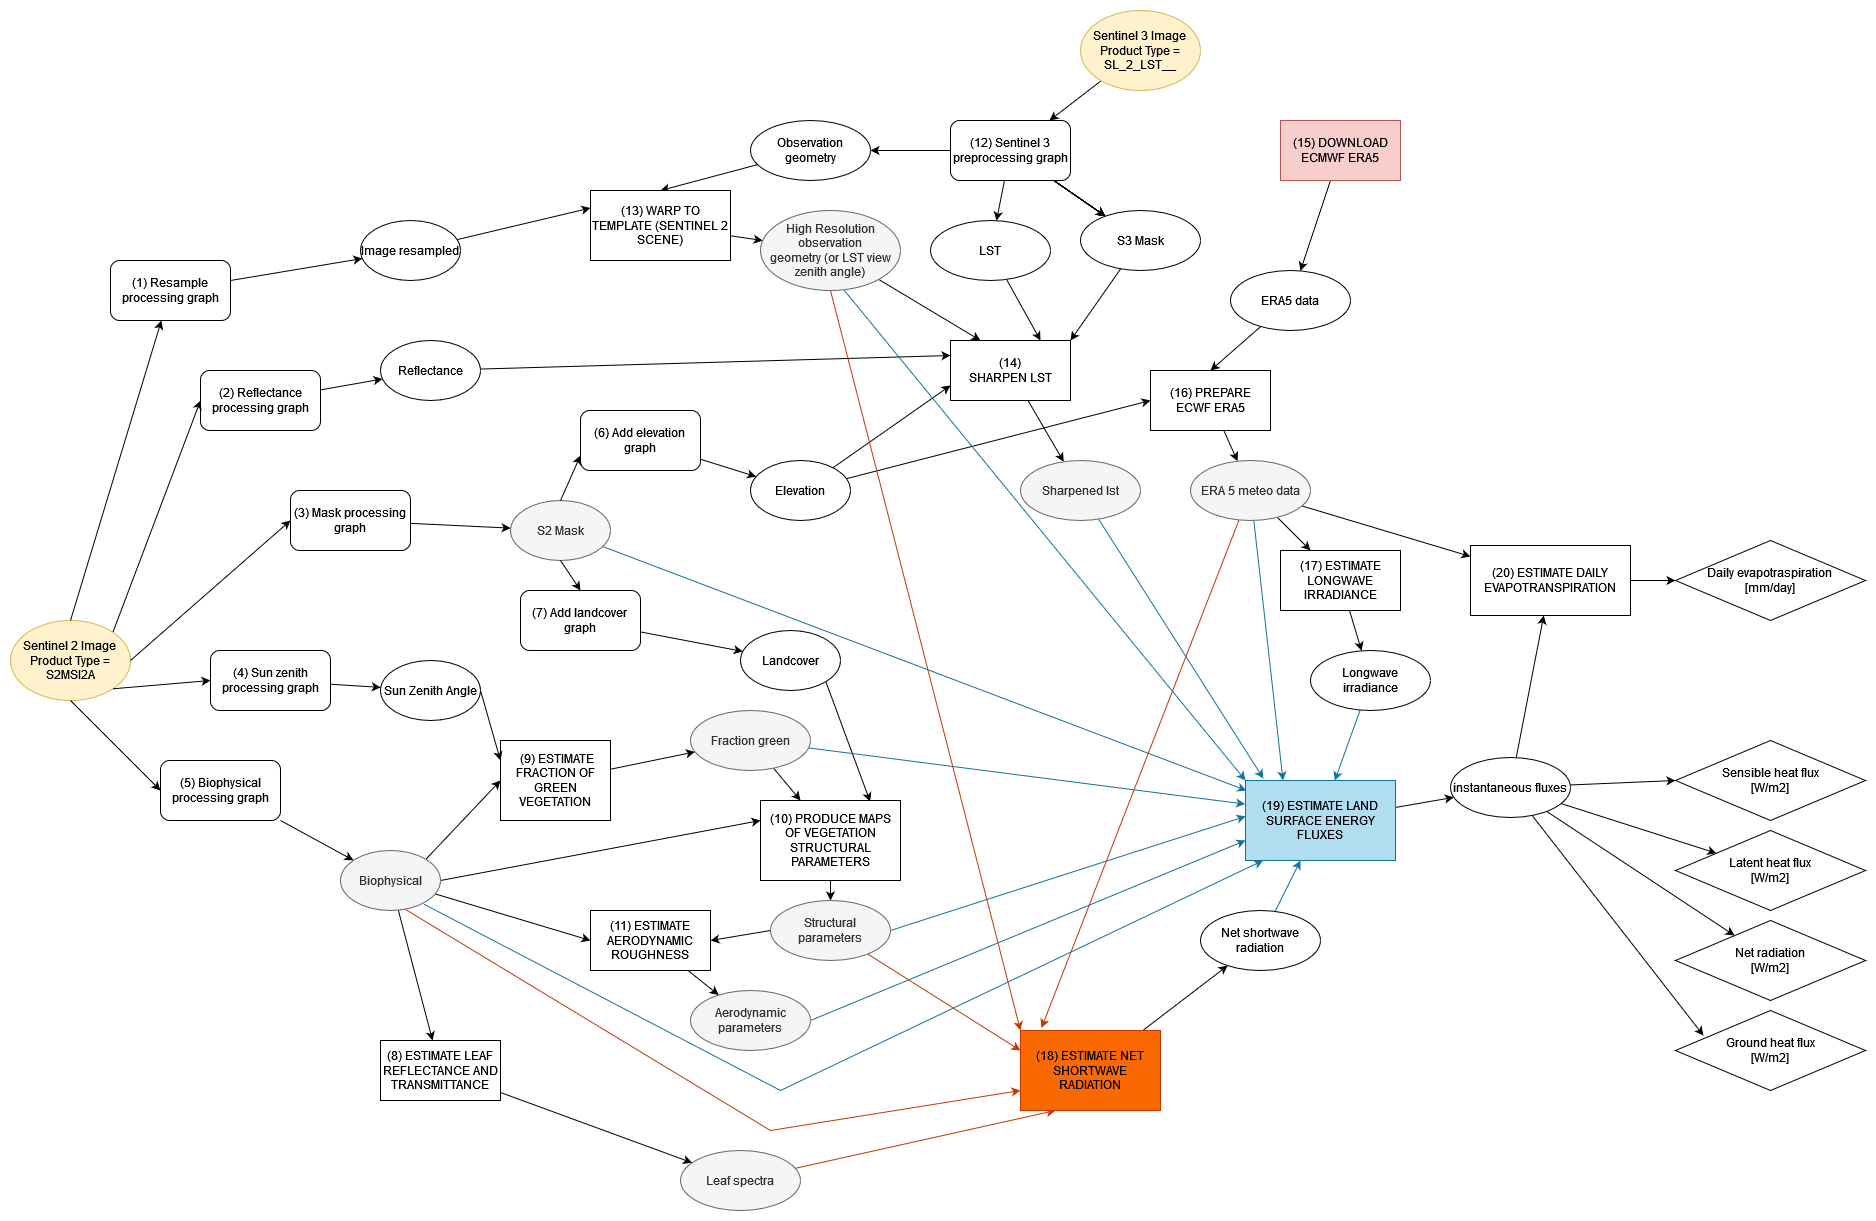
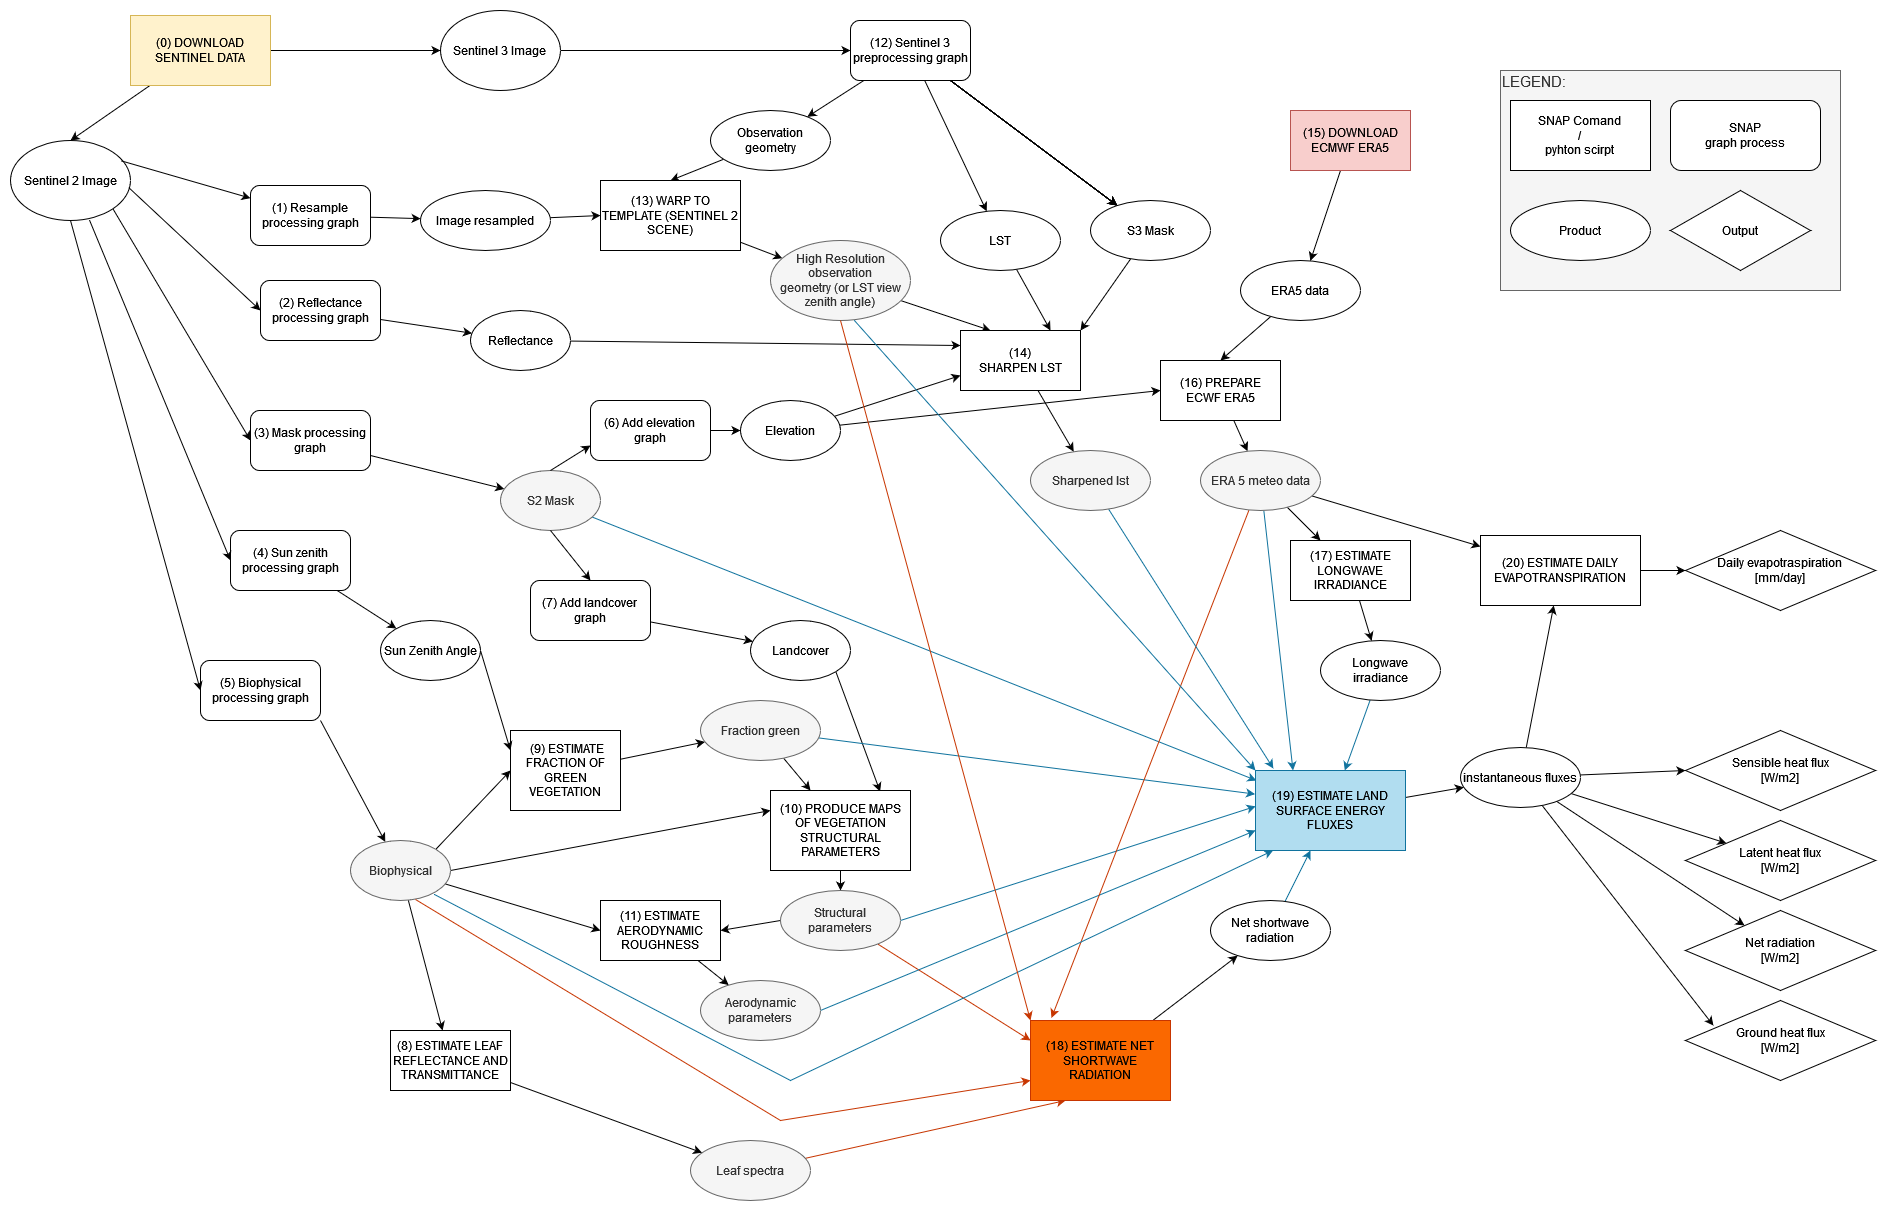
Update documentation

diff --git a/README.md b/README.md
@@ -12,7 +12,7 @@ The original schema for the plugin is represented in the image below:
 
 The automation process reduces it to one step and presents this schema:
 
-![New short sen-et](assets/new_one_step.png)
+![New short sen-et](assets/new_full.png)
 
 ## Installation
 It is needed to have installed SNAP (with Python 3.6) and the [SEN-ET plugin](https://www.esa-sen4et.org/static/media/Sen-ET-plugin-v1.0.1.b41ae6c8.zip) as indicated in the [official plugin documentation](https://www.esa-sen4et.org/static/media/sen-et-user-manual-v1.1.0.5d1ac526.pdf) in Section 3.2. In case of troubleshooting, see Section 3.4.
@@ -20,6 +20,17 @@ It is needed to have installed SNAP (with Python 3.6) and the [SEN-ET plugin](ht
 The test that everything is working will be the download of the ERA5 Data in the next step.
 
 It is also needed for Windows computers to install the Git Bash terminal provided with the installation of [Git](https://git-scm.com/downloads).
+
+### Python for generating scripts
+For the automatization of the project, it is needed to have python installed on the computer. Also, these libraries are needed:
+  - xarray
+  - netcdf4
+  - h5netcdf
+
+It is possible and recommended to use conda to create and environment with all the dependency with the command:
+```
+conda env create -f env.yml
+```
 
 ## Data download
 ### ECMWF Reanalysis v5 (ERA5) Data
@@ -43,7 +54,7 @@ The images request needs to be of the product type:
 That option could be added in the filters, zoom to the area of interest and drawn a rectangular in the area. Open the filter panel and add in the sensing date, the timespan of interest for your analysis, and the desired timespan. Using the preview, it is also possible to check the cloud coverage visually.
 
 ### Folder structure
-Once the data are downloaded, it is needed to organize them in a specific way. An analysis of the data for one month will produce products for around 500 GB. The main folder that could be named as prefered, in the schema below `MAIN_FOLDER`. One folder for each type of data called `era`, `S2` and `S3`. Inside the `S2` and `S3` folders, a folder for each of the days of the images, the folder should be named in this format `YYYY_MM_DD`.
+Once the data are downloaded, it is needed to organize them in a specific way. An analysis of the data for one month will produce products for around 500 GB. The main folder that could be named as prefered, in the schema below `MAIN_FOLDER`. One folder for each type of data is called `era`, `S2` and `S3`. Inside the `S2` and `S3` folders, a folder for each of the days of the images, the folder should be named in this format `YYYY_MM_DD`.
 
 Once the structure has been created, the `era5.nc` and the images should be moved to the correct folder. Also, it is needed to unzip the images.
 As example:
@@ -91,17 +102,23 @@ Set the parameters in the file [`parameters.json`](input/parameters.json):
 - The path into the `setet_folder` variable. The `setet_folder` is something like `"C:\\Users\\user\\.snap\\auxdata\\sen-et-conda-Win64"`.
 - It is also possible to modify all the default computational parameters, as explained in Section 3.3 of the official guide. The *only* parameter that should be modified is the [timezone of the area](input/parameters.json#L12).
 
-Finally, copy the absolute path of all the Sentinel Images in the file [`s2_paths.txt`](input/s2_paths.txt) and [`s3_paths.txt`](input/s3_paths.txt). The path should point to the file `MTD_MSIL2A.xml` for S2 and `xfdumanifest.xml` for S3.
+Finally, copy the absolute path of all the Sentinel Images in the files [`s2_paths.txt`](input/s2_paths.txt) and [`s3_paths.txt`](input/s3_paths.txt). The path should point to the file `MTD_MSIL2A.xml` for S2 and `xfdumanifest.xml` for S3.
 
 ## Run the code
-In a Bash terminal run: 
+### Windows
+In conda terminal run: 
 ```
+conda activate senet-auto
+main.sh
+```
+This will open a bash Terminal with all the dependencies correctly installed. 
+
+### Unix system (linux/MacOS)
+In a terminal run: 
+```
+conda activate senet-auto
 sh main.sh
 ```
-After the computation of the Sentinel 3 images in the graph processing tool, it is necessary to insert the time of acquisition for the Sentinel 3 images. So, it is needed to open in SNAP the Sentinel image cut on the area of interest and report the time in the file `days_ADDTIME_s3.txt` and rename it as `days_time_s3.txt`.
-The structure of the file should be: `YYYY_MM_DD HH:MM`
-
-The script produces a message when the Sentinel 3 images are available for the computation and requests to confirm that the file `days_time_s3.txt` has been created.
 
 ## Correction of errors
 In the [official code repository](https://github.com/DHI-GRAS/sen-et-snap-scripts) the graph presents some errors, due to some changes in the new versions of SNAP. To fix the errors the new version of the graph is present in the folder [graph](graph/).
@@ -109,4 +126,4 @@ In the [official code repository](https://github.com/DHI-GRAS/sen-et-snap-script
 ## Authors
 The official code of SNAP is released with [GNU General Public License v3.0](https://github.com/DHI-GRAS/sen-et-snap-scripts/blob/master/LICENSE) by the original authors and as reported in the [plugin code repository](https://github.com/DHI-GRAS/senEtSnapSta).
 
-The code for the automatization of the process is also realeased by [Lorenzo Stucchi](https://github.com/LorenzoStucchi) with [GNU General Public License v3.0](LICENSE).
+The code for the automatization of the process is also released by [Lorenzo Stucchi](https://github.com/LorenzoStucchi) with [GNU General Public License v3.0](LICENSE).
